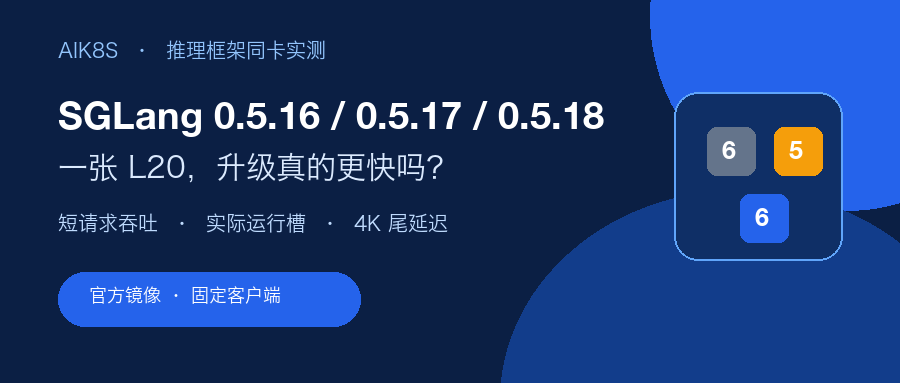
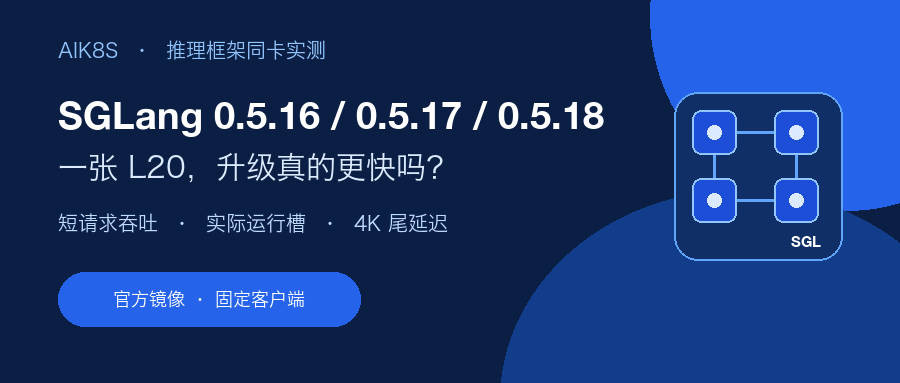
fix: refine SGLang WeChat cover layout

Changed region(s): [[0.7467, 0.2872, 0.9333, 0.6606], [0.0933, 0.7467, 0.3422, 0.8042]]

diff --git a/scripts/generate_sglang_0518_wechat_assets.py b/scripts/generate_sglang_0518_wechat_assets.py
@@ -173,13 +173,26 @@ def cover() -> None:
     draw.text((58, 91), "SGLang 0.5.16 / 0.5.17 / 0.5.18", font=font(38, bold=True, latin=True), fill="white")
     draw.text((58, 151), "一张 L20，升级真的更快吗？", font=font(30, bold=True), fill="#dbeafe")
     draw.text((58, 213), "短请求吞吐  ·  实际运行槽  ·  4K 尾延迟", font=font(20), fill="#bfdbfe")
-    draw.rounded_rectangle((58, 272, 360, 326), radius=27, fill="#2563eb")
-    draw.text((89, 286), "官方镜像 · 固定客户端", font=font(18, bold=True), fill="white")
+    button = (58, 272, 360, 326)
+    button_label = "官方镜像 · 固定客户端"
+    button_font = font(18, bold=True)
+    draw.rounded_rectangle(button, radius=27, fill="#2563eb")
+    text_box = draw.textbbox((0, 0), button_label, font=button_font)
+    text_width = text_box[2] - text_box[0]
+    text_height = text_box[3] - text_box[1]
+    text_x = (button[0] + button[2] - text_width) / 2 - text_box[0]
+    text_y = (button[1] + button[3] - text_height) / 2 - text_box[1]
+    draw.text((text_x, text_y), button_label, font=button_font, fill="white")
     draw.rounded_rectangle((674, 92, 842, 260), radius=24, fill="#0f2f66", outline="#60a5fa", width=2)
-    slots = [(707, 127, "6", "#64748b"), (774, 127, "5", "#f59e0b"), (740, 194, "6", "#2563eb")]
-    for x, y, value, color in slots:
-        draw.rounded_rectangle((x, y, x + 48, y + 48), radius=10, fill=color)
-        draw.text((x + 15, y + 7), value, font=font(25, bold=True, latin=True), fill="white")
+    nodes = [(692, 110), (774, 110), (692, 178), (774, 178)]
+    draw.line((736, 132, 774, 132), fill="#60a5fa", width=3)
+    draw.line((736, 200, 774, 200), fill="#60a5fa", width=3)
+    draw.line((714, 154, 714, 178), fill="#60a5fa", width=3)
+    draw.line((796, 154, 796, 178), fill="#60a5fa", width=3)
+    for x, y in nodes:
+        draw.rounded_rectangle((x, y, x + 44, y + 44), radius=9, fill="#1d4ed8", outline="#93c5fd", width=2)
+        draw.ellipse((x + 15, y + 15, x + 29, y + 29), fill="#dbeafe")
+    draw.text((791, 232), "SGL", font=font(15, bold=True, latin=True), fill="white")
     path = OUT_DIR / "sglang-0518-cover.png"
     image.save(path, format="PNG", optimize=True)
     print(f"generated: {path}")
